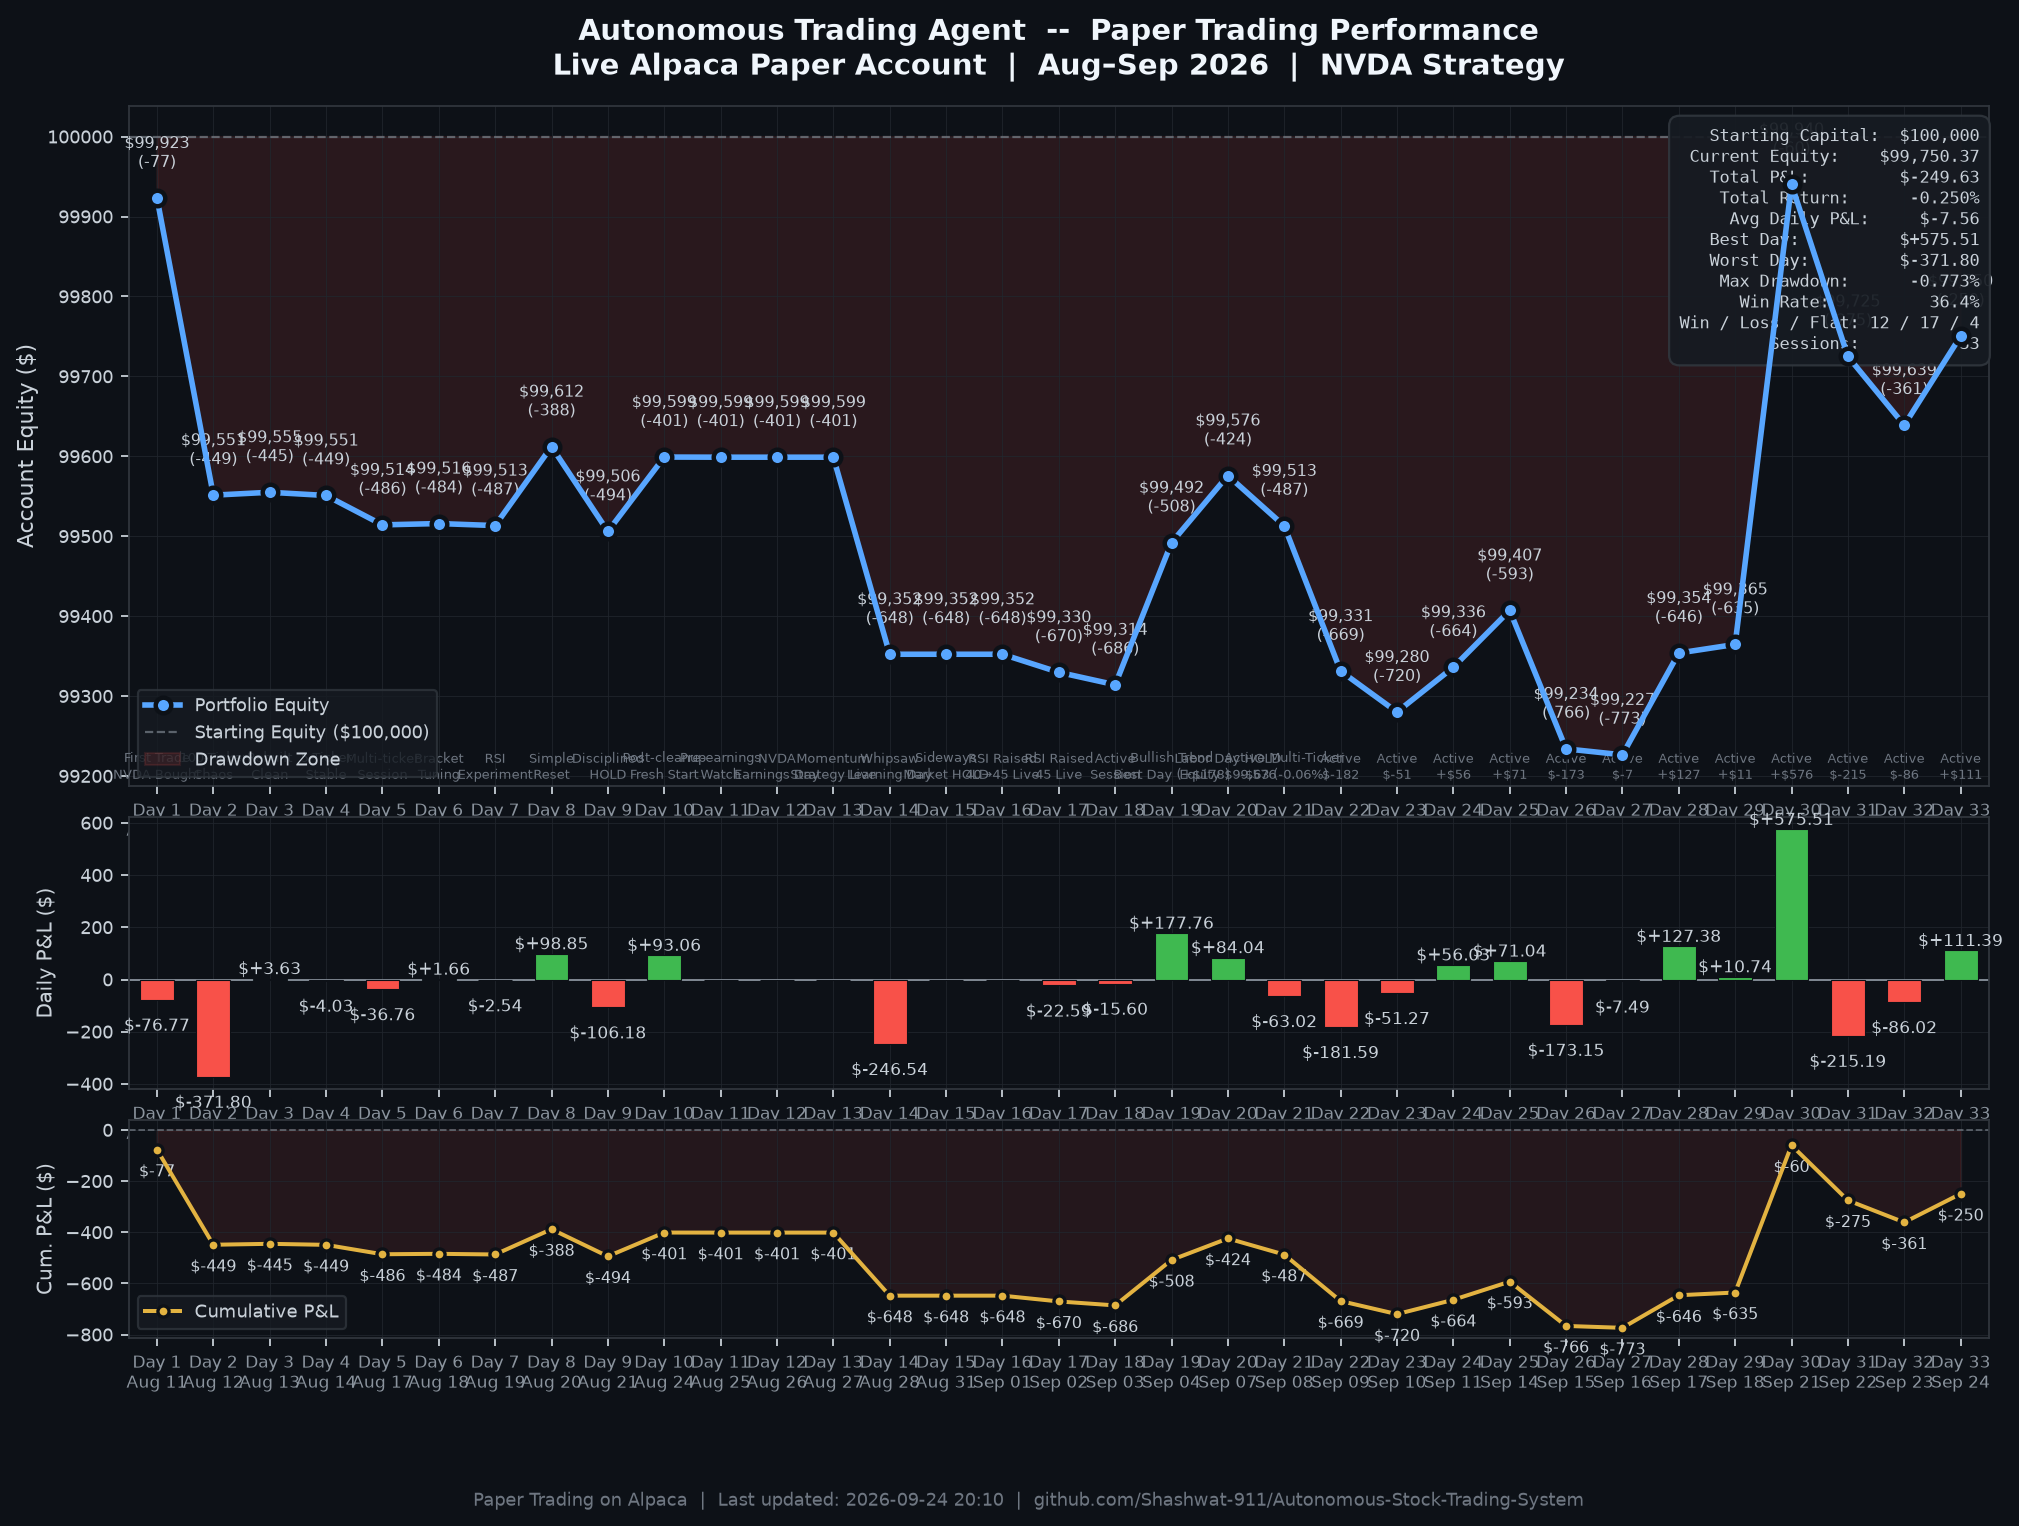
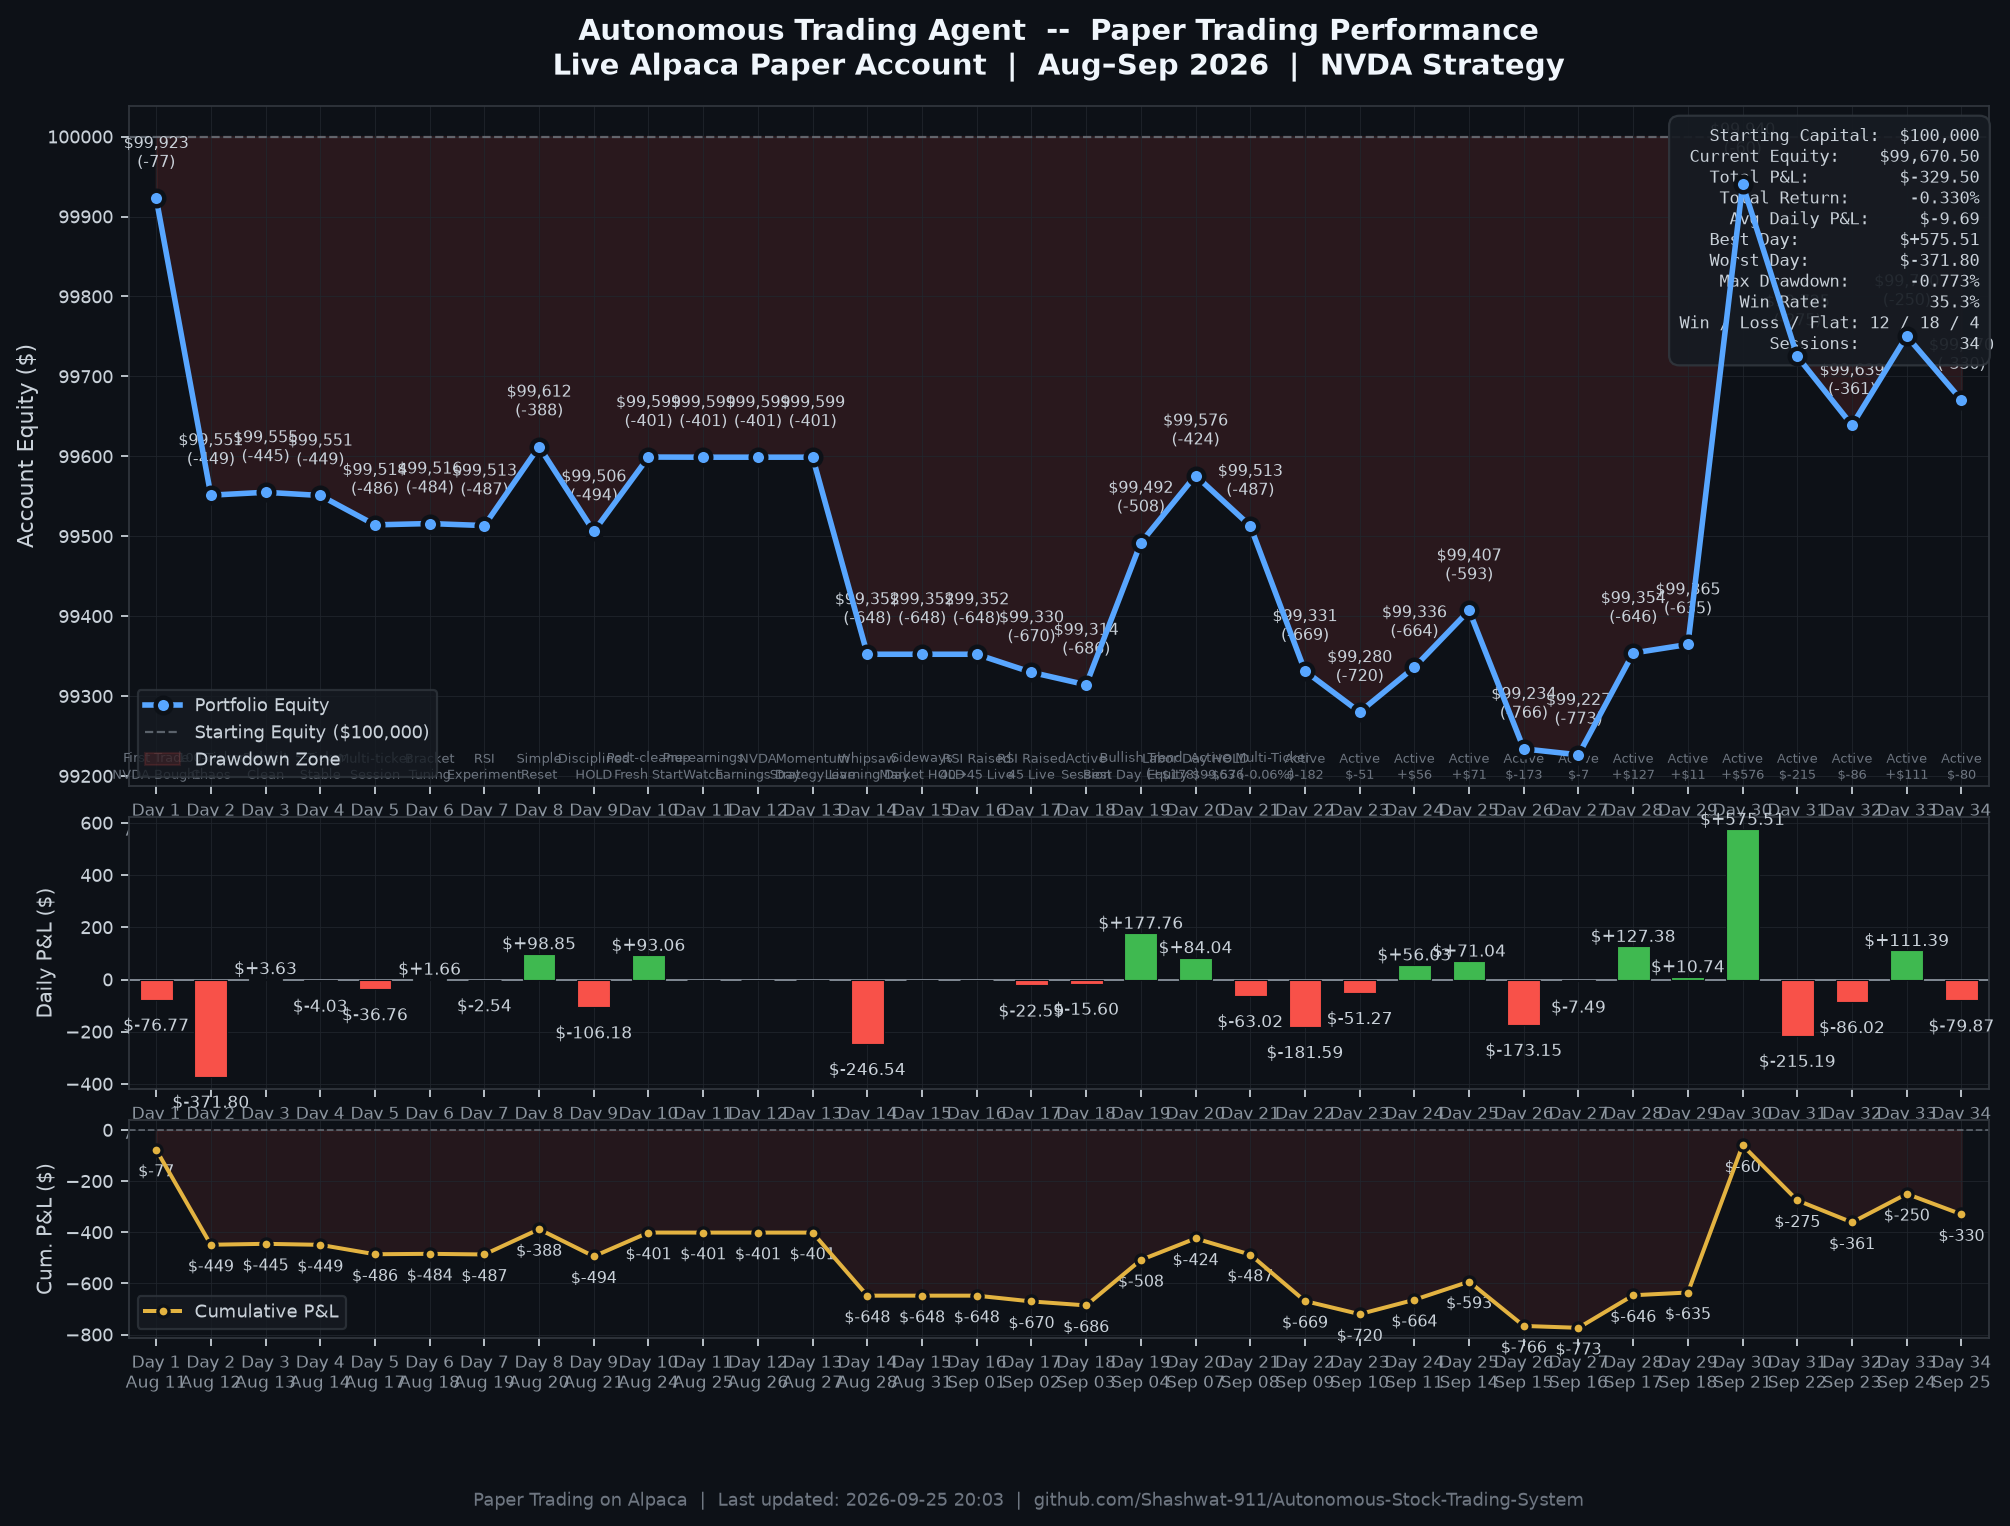
auto(session): 2026-09-25 | equity=$99,670 | return=-0.330%

diff --git a/README.md b/README.md
@@ -47,7 +47,7 @@ The automated trading bot is deployed in the cloud on Render with continuous mon
 
 > **Paper Trading on Alpaca** | Started: Aug 11, 2026 | Initial Capital: $100,000.00 | Universe: NVDA, TSLA, META, MSFT, AAPL (5-Stock High-Momentum Universe)
 
-![Daily P&L Chart](outputs/daily_pnl_chart.png?v=20260924)
+![Daily P&L Chart](outputs/daily_pnl_chart.png?v=20260925)
 
 *Chart auto-generated from live Alpaca Portfolio History API and verified session telemetry via [`scripts/generate_pnl_chart.py`](scripts/generate_pnl_chart.py).*
 
@@ -88,8 +88,9 @@ The automated trading bot is deployed in the cloud on Render with continuous mon
 | **Day 31** | Sep 22 (Tue) | $99,725.00 | -$215.19 | -$275.00 | -0.275% | Loss Session (-$215.19) |
 | **Day 32** | Sep 23 (Wed) | $99,638.98 | -$86.02 | -$361.02 | -0.361% | Active Session (-$86.02) |
 | **Day 33** | Sep 24 (Thu) | $99,750.37 | **+$111.39** | -$249.63 | -0.250% | Profitable Session (+$111.39) |
+| **Day 34** | Sep 25 (Fri) | $99,670.50 | -$79.87 | -$329.50 | -0.330% | Active Session (-$79.87) |
 
-> **Current Equity**: $99,750.37 | **Total P&L**: $-249.63 | **Best Day**: $+575.51 | **Win Rate**: 36.4% (12W / 17L / 4 Flat) | **Max Drawdown**: -0.773% | **Sessions**: 33
+> **Current Equity**: $99,670.50 | **Total P&L**: $-329.50 | **Best Day**: $+575.51 | **Win Rate**: 35.3% (12W / 18L / 4 Flat) | **Max Drawdown**: -0.773% | **Sessions**: 34
 ---
 
 ## System Architecture
